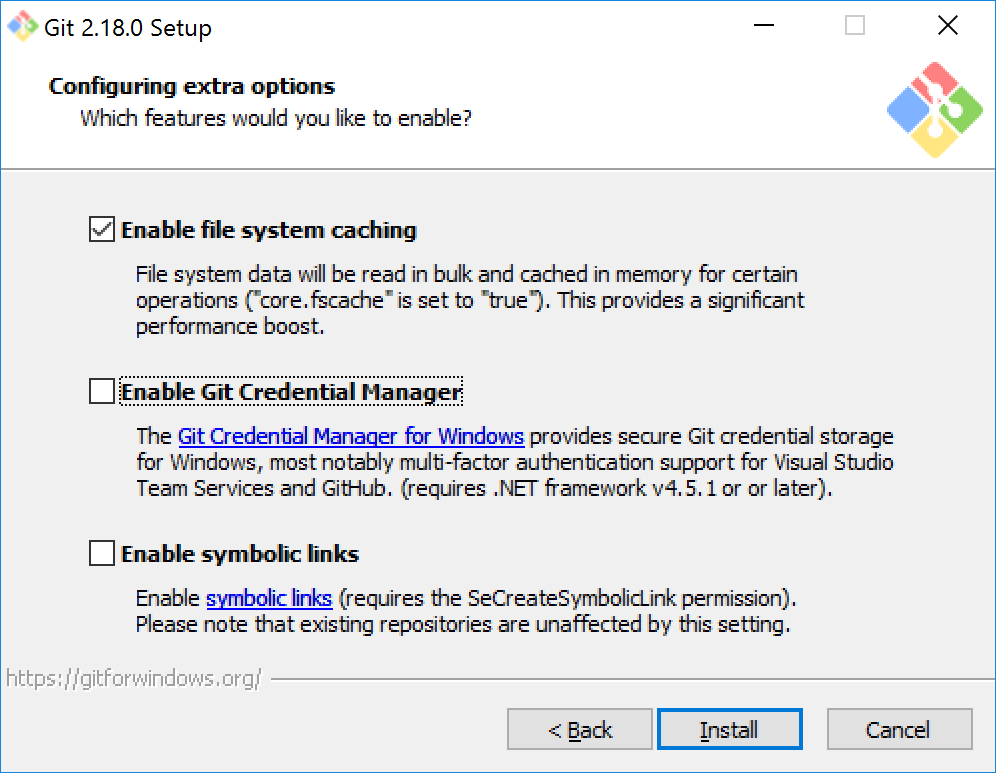
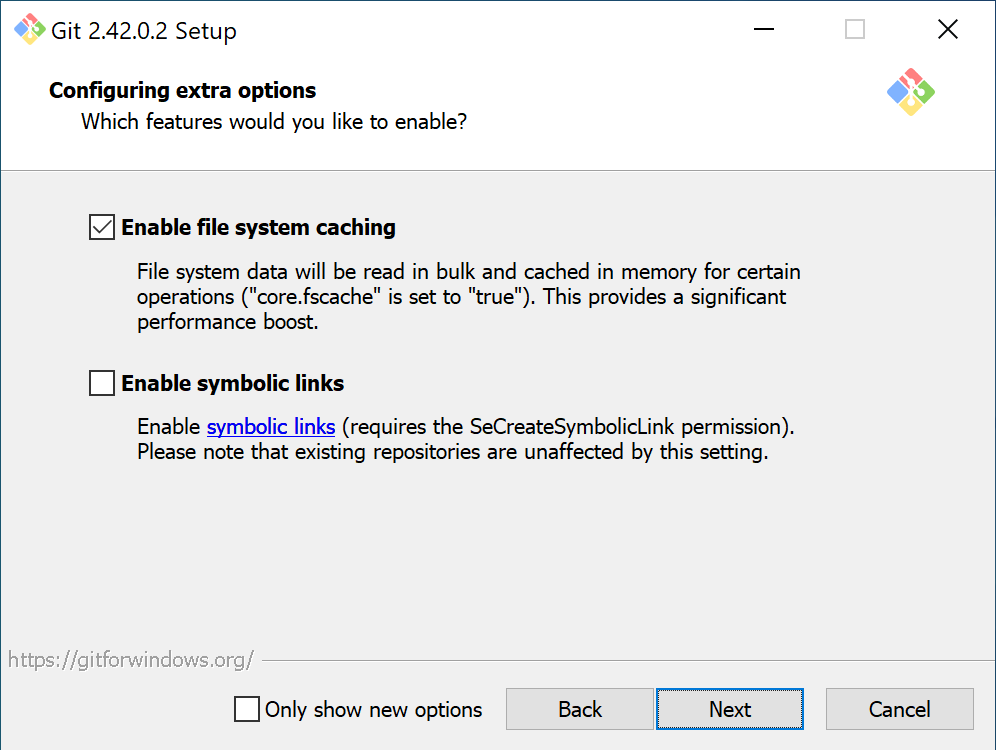
Update for Nightscout 15

diff --git a/README.md b/README.md
@@ -30,21 +30,21 @@
 
 ## Goals and Thanks
 
-Most users don't have the infrastructure to run and maintain Nightscout at home in a way that's safe and accessible from the Internet. For those users [Azure](http://www.azure.com/) and [Hiroku](https://www.heroku.com/) are excellent resources. The goal of this walk through is to install a local instance of Nightscout on [Windows Server 2016](https://www.microsoft.com/en-us/cloud-platform/windows-server) and to run it when the server boots, even if a user doesn't log on. Further, because I already run a front-facing web server, I'll also detail how to setup a reverse proxy using [IIS](http://www.iis.net/) using my primary web server. The reverse proxy isn't required but documentation may help someone through a snag or two that I ran into.
+Most users don't have the infrastructure to run and maintain Nightscout at home in a way that's safe and accessible from the Internet. For those users [Azure](http://www.azure.com/) and [Hiroku](https://www.heroku.com/) are excellent resources. The goal of this walk through is to install a local instance of Nightscout on [Windows Server 2016, 2019, or 2202](https://www.microsoft.com/en-us/cloud-platform/windows-server) and to run it when the server boots, even if a user doesn't log on. Further, because I already run a front-facing web server, I'll also detail how to setup a reverse proxy using [IIS](http://www.iis.net/) using my primary web server. The reverse proxy isn't required but documentation may help someone through a snag or two that I ran into.
 
-Nightscout is still in development so there are some tricks needed because of dependencies on different open source libraries. I'd like to thank [@MilosKozak](https://gitter.im/MilosKozak), [@PieterGit](https://gitter.im/PieterGit), and the other users at [https://gitter.im/nightscout/public](https://gitter.im/nightscout/public) for the pointers they provided.
+Nightscout is still in development so there are some tricks needed because of dependencies on different open source libraries. I'd like to thank [@bewest](https://github.com/bewest), [@MilosKozak](https://github.com/MilosKozak), [@PieterGit](https://github.com/PieterGit), and the other users at [https://gitter.im/nightscout/public](https://gitter.im/nightscout/public) for the pointers they provided.
 
 <a name="tools-and-services"></a>
 
 # Tools and Services
 The following software was used to set up the local Nightscout server. All of the tools are free except for the Windows Server operating system.
 
-1. [Windows Server 2016](https://www.microsoft.com/en-us/cloud-platform/windows-server)
+1. [Windows Server 2016, 2019, or 2022](https://www.microsoft.com/en-us/cloud-platform/windows-server)
 1. [Visual Studio Express 2015 for Windows Desktop](https://my.visualstudio.com/Downloads?q=Visual%20Studio%20Express%202015%20for%20Windows%20Desktop)
-1. [MongoDB 4.0.0](https://www.mongodb.com/download-center?jmp=nav#community) for Windows Server 2008 R2 and later, with SSL support
+1. [MongoDB Community Server 4.4.25](https://fastdl.mongodb.org/windows/mongodb-windows-x86_64-4.4.25-signed.msi)
 1. [Python 2.7.11](https://www.python.org/downloads/release/python-2711/)
-1. [Git for Windows 2.18.0](https://github.com/git-for-windows/git/releases/download/v2.18.0.windows.1/Git-2.18.0-64-bit.exe)
-1. [Node.js 10.15.2 x64](https://nodejs.org/dist/v10.15.2/node-v10.15.2-x64.msi)
+1. [Git for Windows 2.42.0](https://github.com/git-for-windows/git/releases/download/v2.42.0.windows.2/Git-2.42.0.2-64-bit.exe)
+1. [Node.js 16.20.2 x64](https://nodejs.org/download/release/v16.20.2/node-v16.20.2-x64.msi)
 
 <a name="installation"></a>
 
@@ -102,7 +102,7 @@ Once Mongo is installed the service is started automatically.
 Configuration involves creating the Nightscout database and assigning it credentials. You'll need this information and some information above to put together the connection string so Nightscout knows where to find the database.
 
 1. Open a new Administrator command prompt
-1. Open the Mongo client by running `C:\Program Files\MongoDB\Server\4.0\bin\mongo.exe`
+1. Open the Mongo client by running `C:\Program Files\MongoDB\Server\4.4\bin\mongo.exe`
 1. At the resulting `>` prompt create the `Nightscout` database:
 
       ```
@@ -139,11 +139,25 @@ mongodb://username:password@localhost:27017/Nightscout
 
    ![](screenshots/GitInstallOptions.png)
 
+   ![](screenshots/GitEditorOptions.png)
+
+   ![](screenshots/GitBranchNames.png)
+
+   ![](screenshots/GitSshOptions.png)
+
+   ![](screenshots/GitPullOptions.png)
+
    ![](screenshots/GitUnixOptions.png)
 
    ![](screenshots/GitCheckoutOptions.png)
 
+   ![](screenshots/GitTerminalEmulator.png)
+
+   ![](screenshots/GitCredentialHelper.png)
+
    ![](screenshots/GitCacheOptions.png)
+
+   ![](screenshots/GitExperimentalOptions.png)
 
 1. Install Python, making sure to add Python to the `PATH` environment variable:
 
@@ -314,7 +328,7 @@ The Task Scheduler must be used to start Nightscout when the system boots.
    - Run task as soon as possible after a scheduled start is missed
    - If the task fails, restart every (default is 1 minute)
    
-   *Important*: Uncheck the "Stop the task if it runs longer than" or your Nightscout server will fail three days after every reboot.
+   *Important*: Uncheck the "Stop the task if it runs longer than" or your Nightscout service will stop three days after every reboot.
 
    ![](screenshots/TaskSchedulerMongoSettings.png)
 
